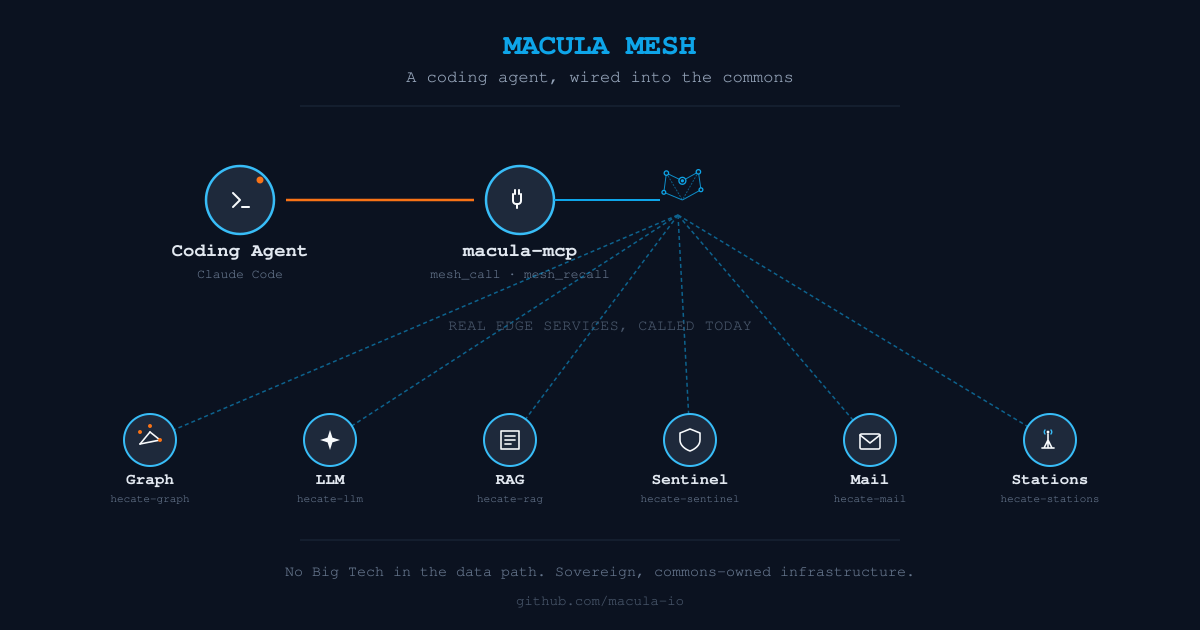
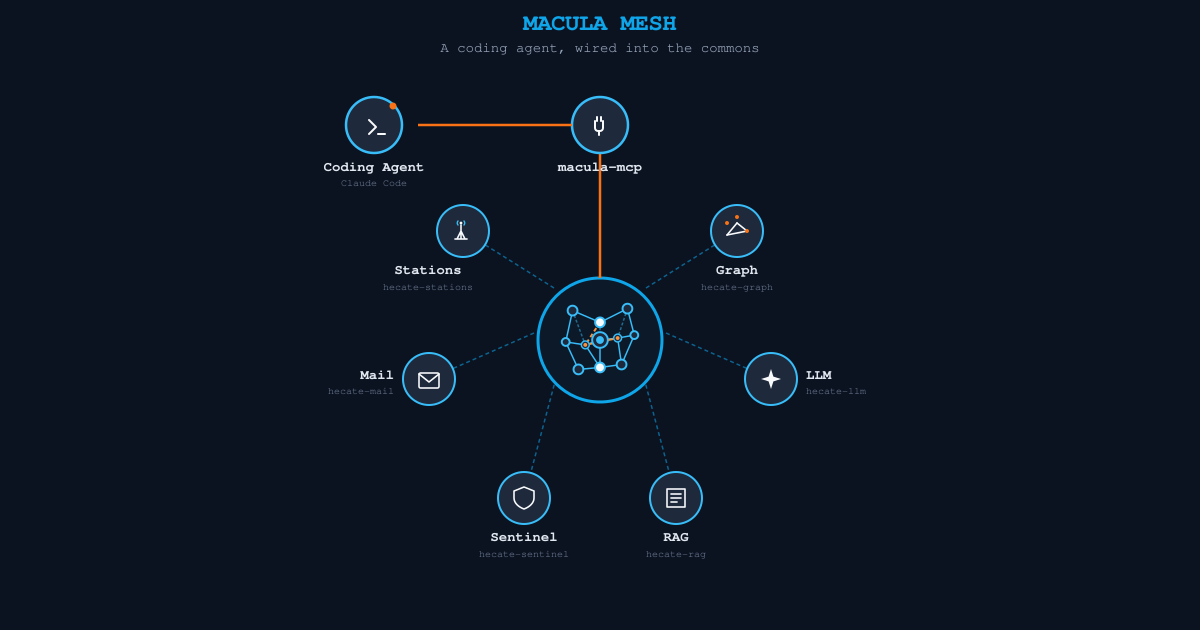
Redesign agent-mesh diagram: hub-and-spoke, mesh as a central circle
The mesh itself is now a central circle with macula-symbol-dark.svg
embedded verbatim inside it, services arranged radially around it --
establishing this repo's hub-and-spoke convention for architecture
diagrams (distinct from the linear badge-row convention the announcement
banners use). Coding Agent -> macula-mcp is the active (orange) path
entering the hub from the top; services reach it via passive dashed
mesh-blue spokes.

Claude-Session: https://claude.ai/code/session_016vYH48rnRe3RhKqQVoJeLD

diff --git a/README.md b/README.md
@@ -82,8 +82,11 @@ Not a product announcement like the banners/card above — an honest picture
 of one real workflow: a coding agent (Claude Code) reaches the mesh
 through macula-mcp and calls real, deployed edge services (hecate-graph,
 hecate-llm, hecate-rag, hecate-sentinel, hecate-mail, hecate-stations),
-not a roadmap. macula-mcp's plug badge and the mesh-node motif are reused
-verbatim from the deployables banner above. 1200×630, LinkedIn-safe.
+not a roadmap. Introduces this repo's hub-and-spoke convention for
+architecture diagrams: the mesh itself as a central circle with
+`macula-symbol-dark.svg` embedded verbatim inside it, services arranged
+radially around it. macula-mcp's plug badge is reused verbatim from the
+deployables banner above. 1200×630, LinkedIn-safe.
 
 | Asset | Link |
 |-------|------|
